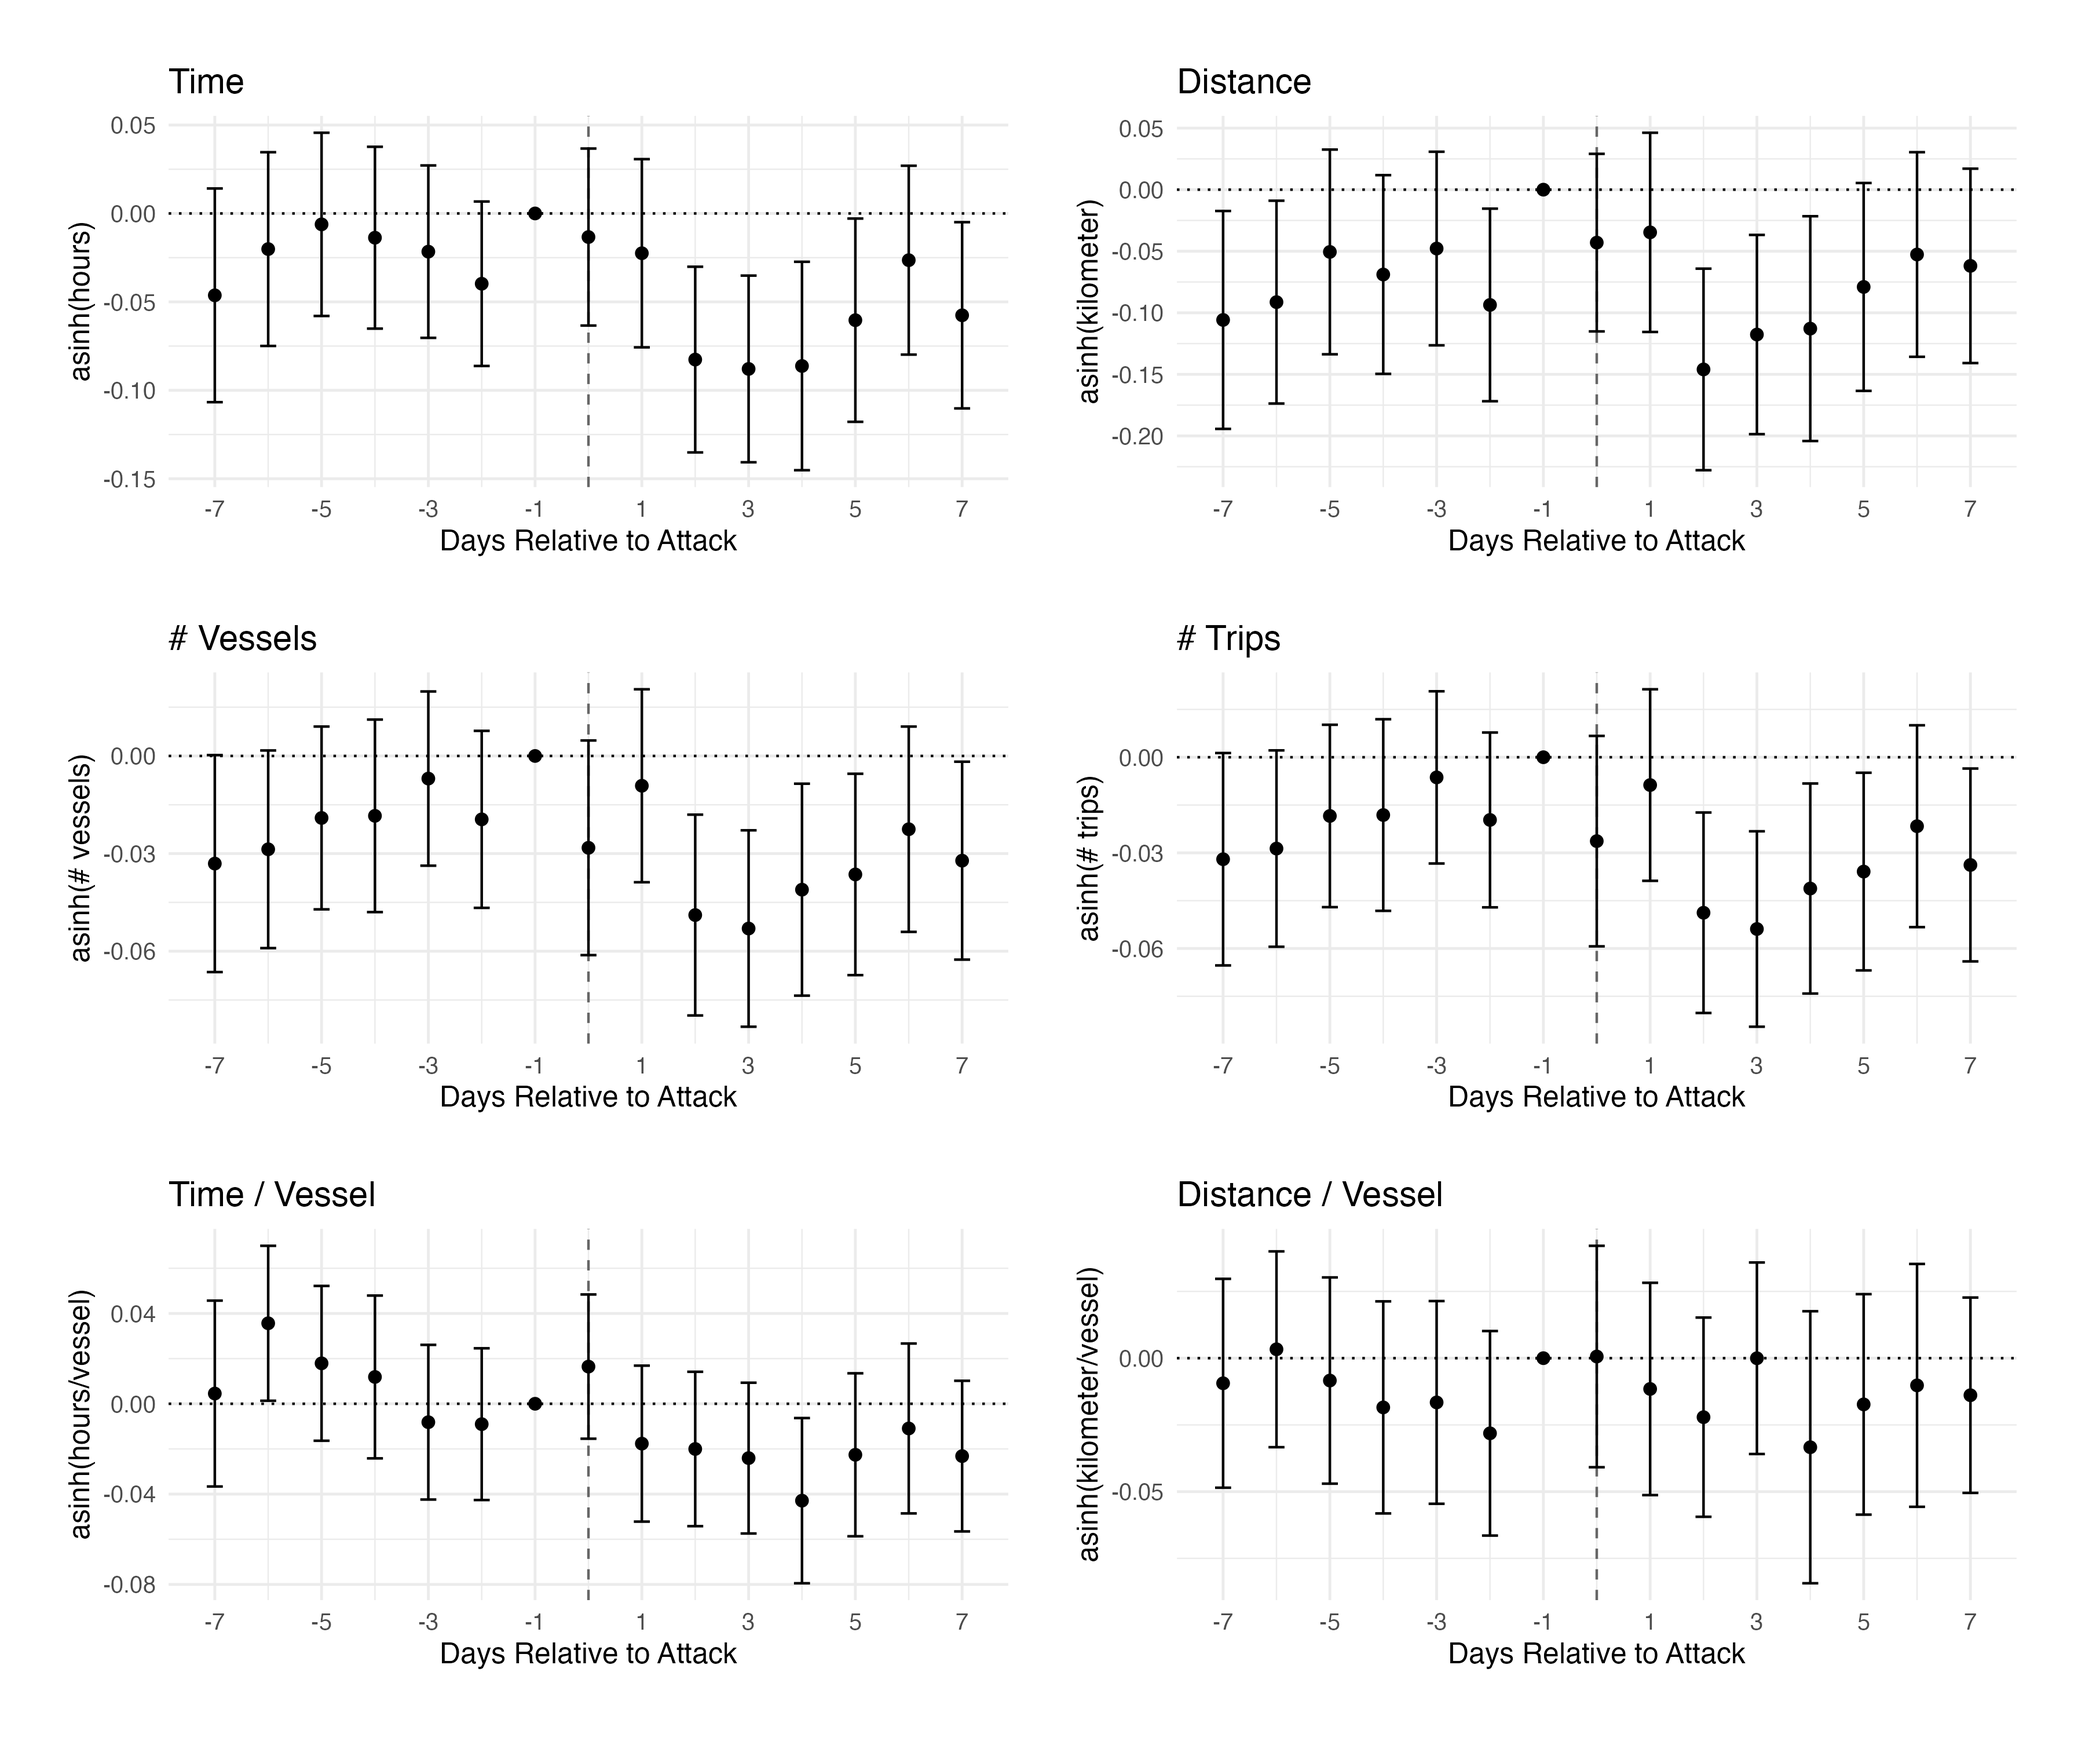
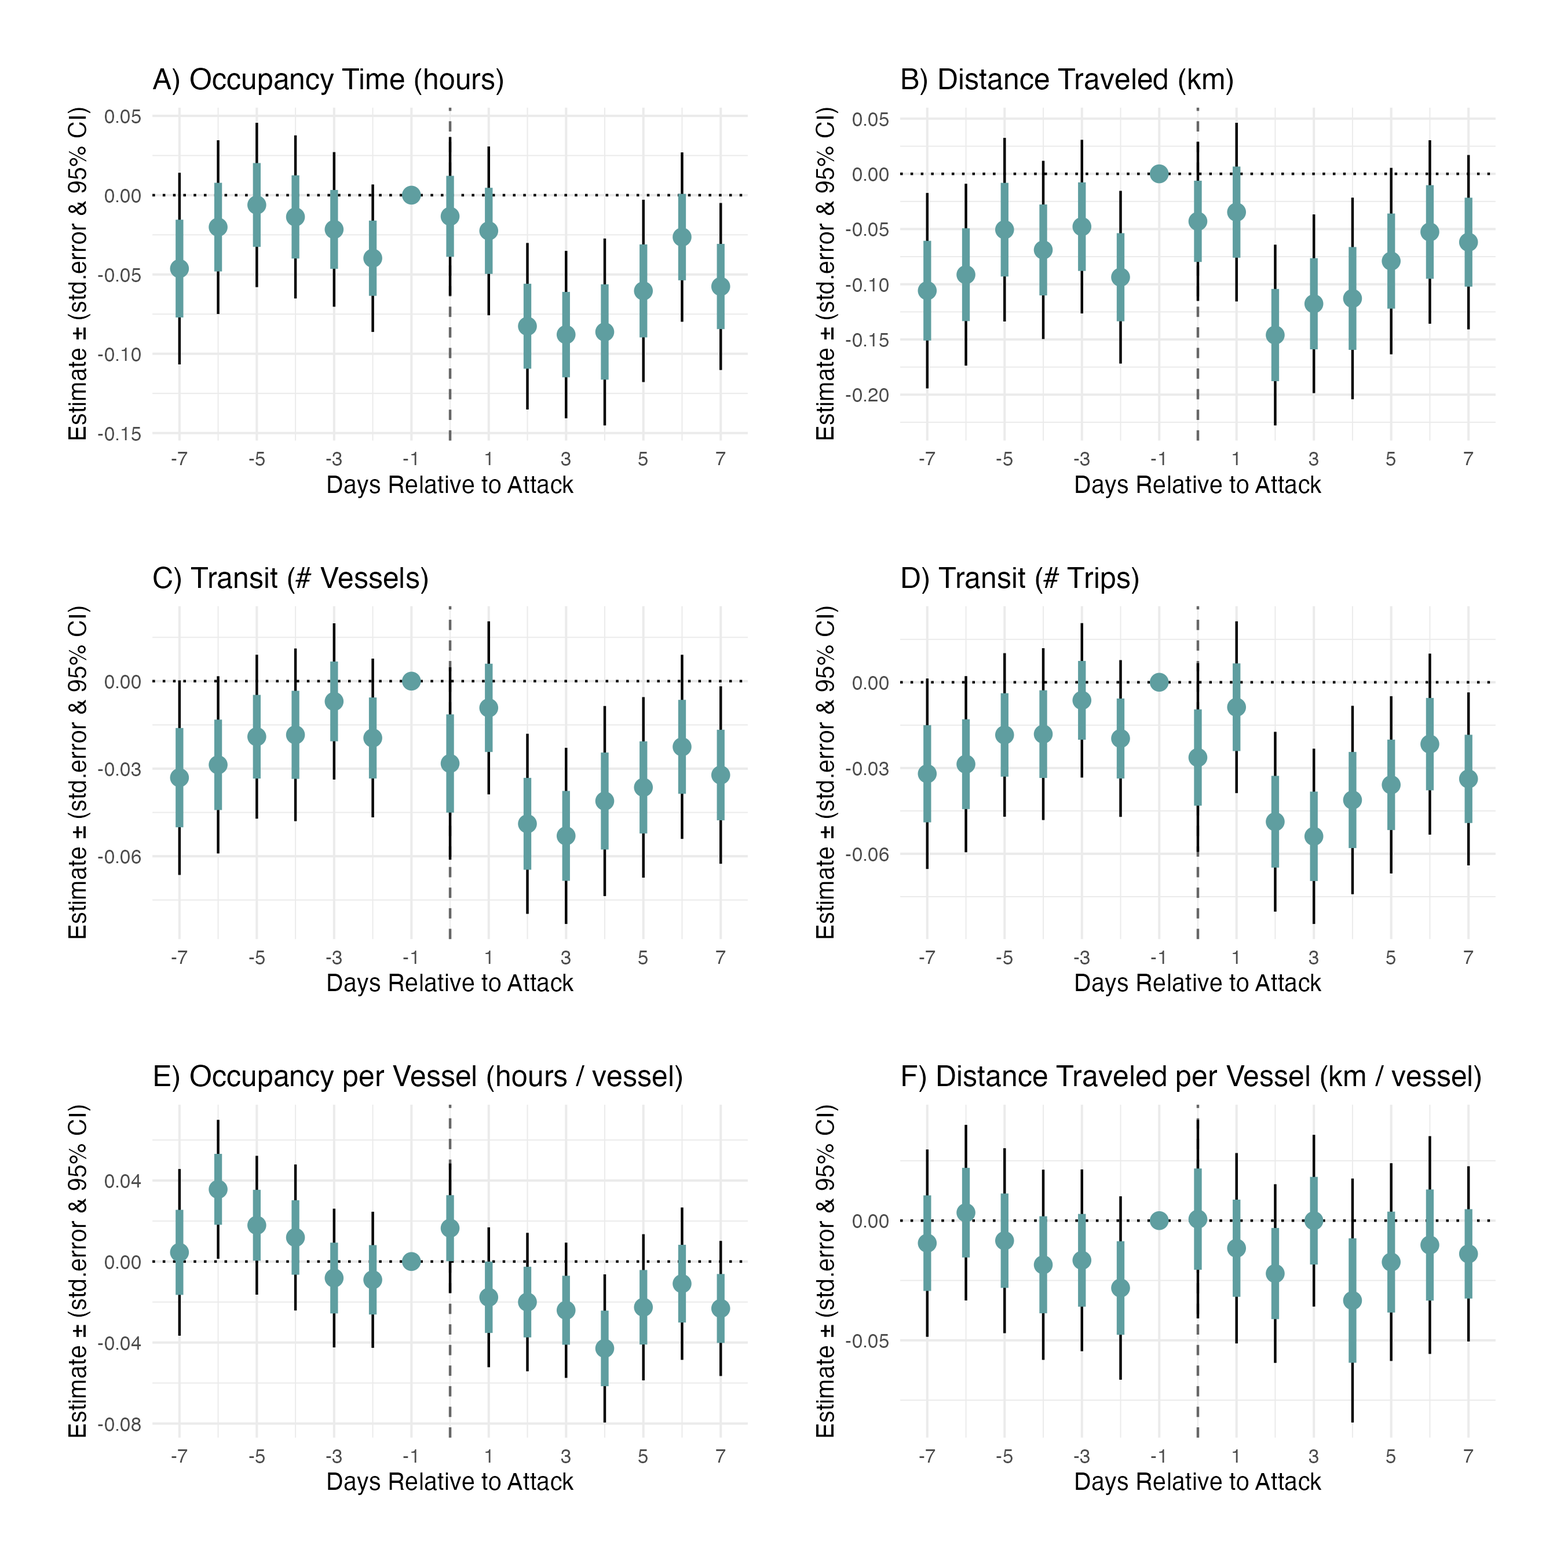
Updated event study (figure 3) and table 1

diff --git a/results/figures_and_tables/cell_post_regression.tex b/results/figures_and_tables/cell_post_regression.tex
@@ -8,42 +8,40 @@
   & Global & G. of Aden & G. of Guinea & S.E. Asia\\
 \midrule
 \addlinespace[0.5em]
-\multicolumn{5}{l}{\textit{Panel (A): Total Time (hours)}}\\
+\multicolumn{5}{l}{\textit{Panel (A): Occupancy Time (hours)}}\\
 \midrule \hspace{1em}Post-Attack & -0.028** & 0.073** & -0.119*** & 0.007\\
 \hspace{1em} & (0.014) & (0.035) & (0.028) & (0.023)\\
 \addlinespace[0.5em]
 \hspace{1em}Observations & 32,129 & 3,395 & 9,238 & 12,018 & \\
-\multicolumn{5}{l}{\textit{Panel (B): Total Distance (km)}}\\
+\multicolumn{5}{l}{\textit{Panel (B): Distance Traveled (km)}}\\
 \midrule \hspace{1em}Post-Attack & -0.011 & 0.154** & -0.106*** & 0.018\\
 \hspace{1em} & (0.019) & (0.065) & (0.039) & (0.030)\\
 \addlinespace[0.5em]
 \hspace{1em}Observations & 32,129 & 3,395 & 9,238 & 12,018 & \\
-\multicolumn{5}{l}{\textit{Panel (C): Vessels (\#)}}\\
+\multicolumn{5}{l}{\textit{Panel (C): Transit (\# Vessels)}}\\
 \midrule \hspace{1em}Post-Attack & -0.015* & 0.025 & -0.073*** & 0.014\\
 \hspace{1em} & (0.009) & (0.022) & (0.015) & (0.015)\\
 \addlinespace[0.5em]
 \hspace{1em}Observations & 32,129 & 3,395 & 9,238 & 12,018 & \\
-\multicolumn{5}{l}{\textit{Panel (D): Voyages (\#)}}\\
+\multicolumn{5}{l}{\textit{Panel (D): Transit (\# Voyages)}}\\
 \midrule \hspace{1em}Post-Attack & -0.015* & 0.026 & -0.073*** & 0.014\\
 \hspace{1em} & (0.009) & (0.022) & (0.015) & (0.016)\\
 \addlinespace[0.5em]
 \hspace{1em}Observations & 32,129 & 3,395 & 9,238 & 12,018 & \\
-\multicolumn{5}{l}{\textit{Panel (E): Time per Vessel (hours / vessel)}}\\
+\multicolumn{5}{l}{\textit{Panel (E): Occupancy per Vessel (hours / vessel)}}\\
 \midrule \hspace{1em}Post-Attack & -0.021*** & 0.006 & -0.049*** & -0.012\\
 \hspace{1em} & (0.008) & (0.022) & (0.016) & (0.010)\\
 \addlinespace[0.5em]
 \hspace{1em}Observations & 27,975 & 2,505 & 8,081 & 10,954 & \\
-\multicolumn{5}{l}{\textit{Panel (F): Distance per Vessel (km / vessel)}}\\
+\multicolumn{5}{l}{\textit{Panel (F): Distance Traveled per Vessel (km / vessel)}}\\
 \midrule \hspace{1em}Post-Attack & -0.000 & -0.012 & 0.029 & -0.005\\
 \hspace{1em} & (0.010) & (0.025) & (0.018) & (0.014)\\
 \hspace{1em}Observations & 27,975 & 2,505 & 8,081 & 10,954 & \\
 \bottomrule
 \end{tabular}
 \begin{tablenotes}
-\item \scriptsize * p $<$ 0.1, ** p $<$ 0.05, *** p $<$ 0.01 The unit of observation is a grid cell-day. Each panel examines a different shipping activity measure:
-                      Panel A: total time (hours), Panel B: total distance (kilometers), Panel C: number of vessels, 
-                      Panel D: number of trips, Panel E: time per vessel (hours/vessel), Panel F: distance per vessel (km/vessel).
-                      Each column represents a different geographic region: Global, Gulf of Aden, Gulf of Guinea, and Southeast Asia.
+\item \scriptsize * p $<$ 0.1, ** p $<$ 0.05, *** p $<$ 0.01 The unit of observation is a grid cell-day. Each panel examines a different shipping activity measure and
+                      each column represents a different geographic region.
                       Post-Attack is a binary indicator equal to 1 for days on or after a pirate attack in the grid cell.
                       The analysis uses a 7-day window around attacks to identify pre- and post-attack periods.
                       All regressions include grid cell, year-month, day of week, and ASAM subregion fixed effects.
